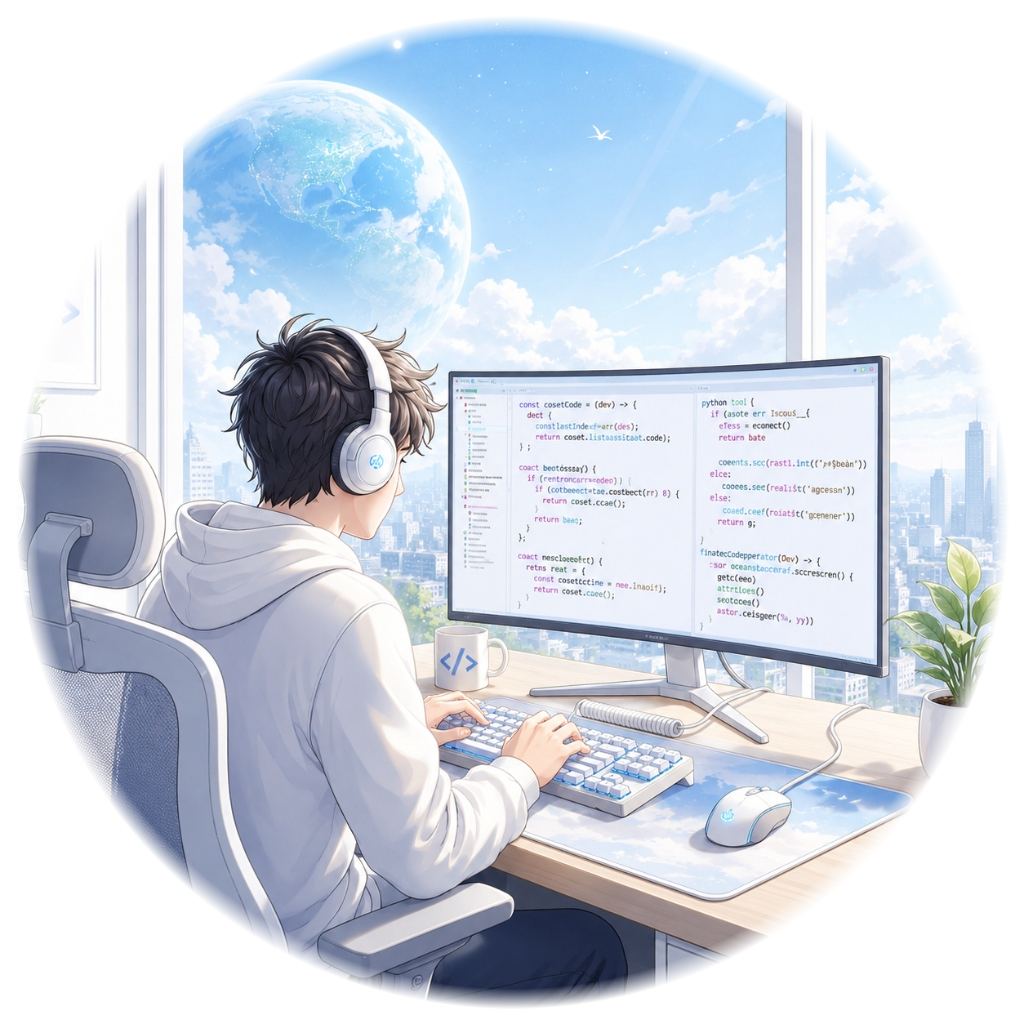
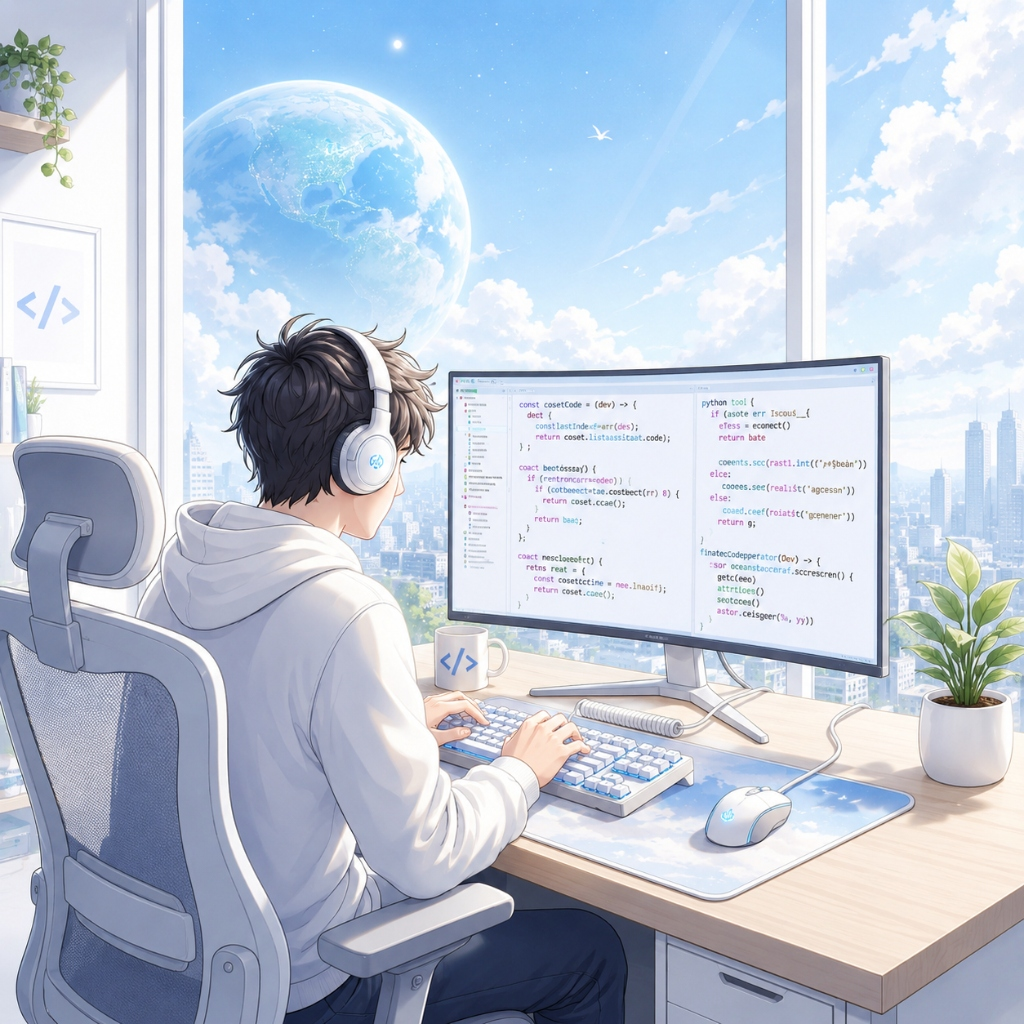
Bypassed browser cache with v10 query string to immediately display new light theme anime developer image

Changed region(s): [[0.0, 0.0, 1.0, 1.0], [0.0, 0.2812, 0.0625, 0.3125], [0.0625, 0.2188, 0.0938, 0.25]]

diff --git a/frontend/src/components/landing/HeroDashboardProjector.tsx b/frontend/src/components/landing/HeroDashboardProjector.tsx
@@ -7,19 +7,19 @@ export const HeroDashboardProjector: React.FC = () => {
 
   return (
     <div className="relative w-full max-w-[720px] flex items-center justify-center select-none py-2 mx-auto">
-      {/* Soft Ambient Backlight Glow behind Circle */}
-      <div className={`absolute inset-6 rounded-full blur-[90px] pointer-events-none transition-all duration-700 ${
+      {/* Soft Ambient Backlight Glow behind Image */}
+      <div className={`absolute inset-6 rounded-3xl blur-[90px] pointer-events-none transition-all duration-700 ${
         dark 
           ? 'bg-gradient-to-tr from-sky-500/20 via-blue-600/15 to-indigo-600/20 opacity-80' 
           : 'bg-gradient-to-tr from-sky-300/30 via-blue-200/20 to-indigo-200/20 opacity-70'
       }`} />
 
-      {/* Pristine Crisp Circular Artwork (Increased Prominent Size) */}
+      {/* Pristine Crisp Artwork with Cache-Busting Query Parameter */}
       <div className="relative w-full flex items-center justify-center">
         <img
-          src={dark ? '/assets/hero-circle-dark.png' : '/assets/hero-circle-light.png'}
-          alt="CodeForge 3D Dashboard Circular Hologram"
-          className="w-full h-auto max-h-[660px] object-contain pointer-events-none transition-all duration-300 drop-shadow-2xl"
+          src={dark ? '/assets/hero-circle-dark.png?v=10' : '/assets/hero-circle-light.png?v=10'}
+          alt="CodeForge Dashboard Workspace"
+          className="w-full h-auto max-h-[660px] object-contain pointer-events-none rounded-3xl transition-all duration-300 drop-shadow-2xl"
         />
       </div>
     </div>